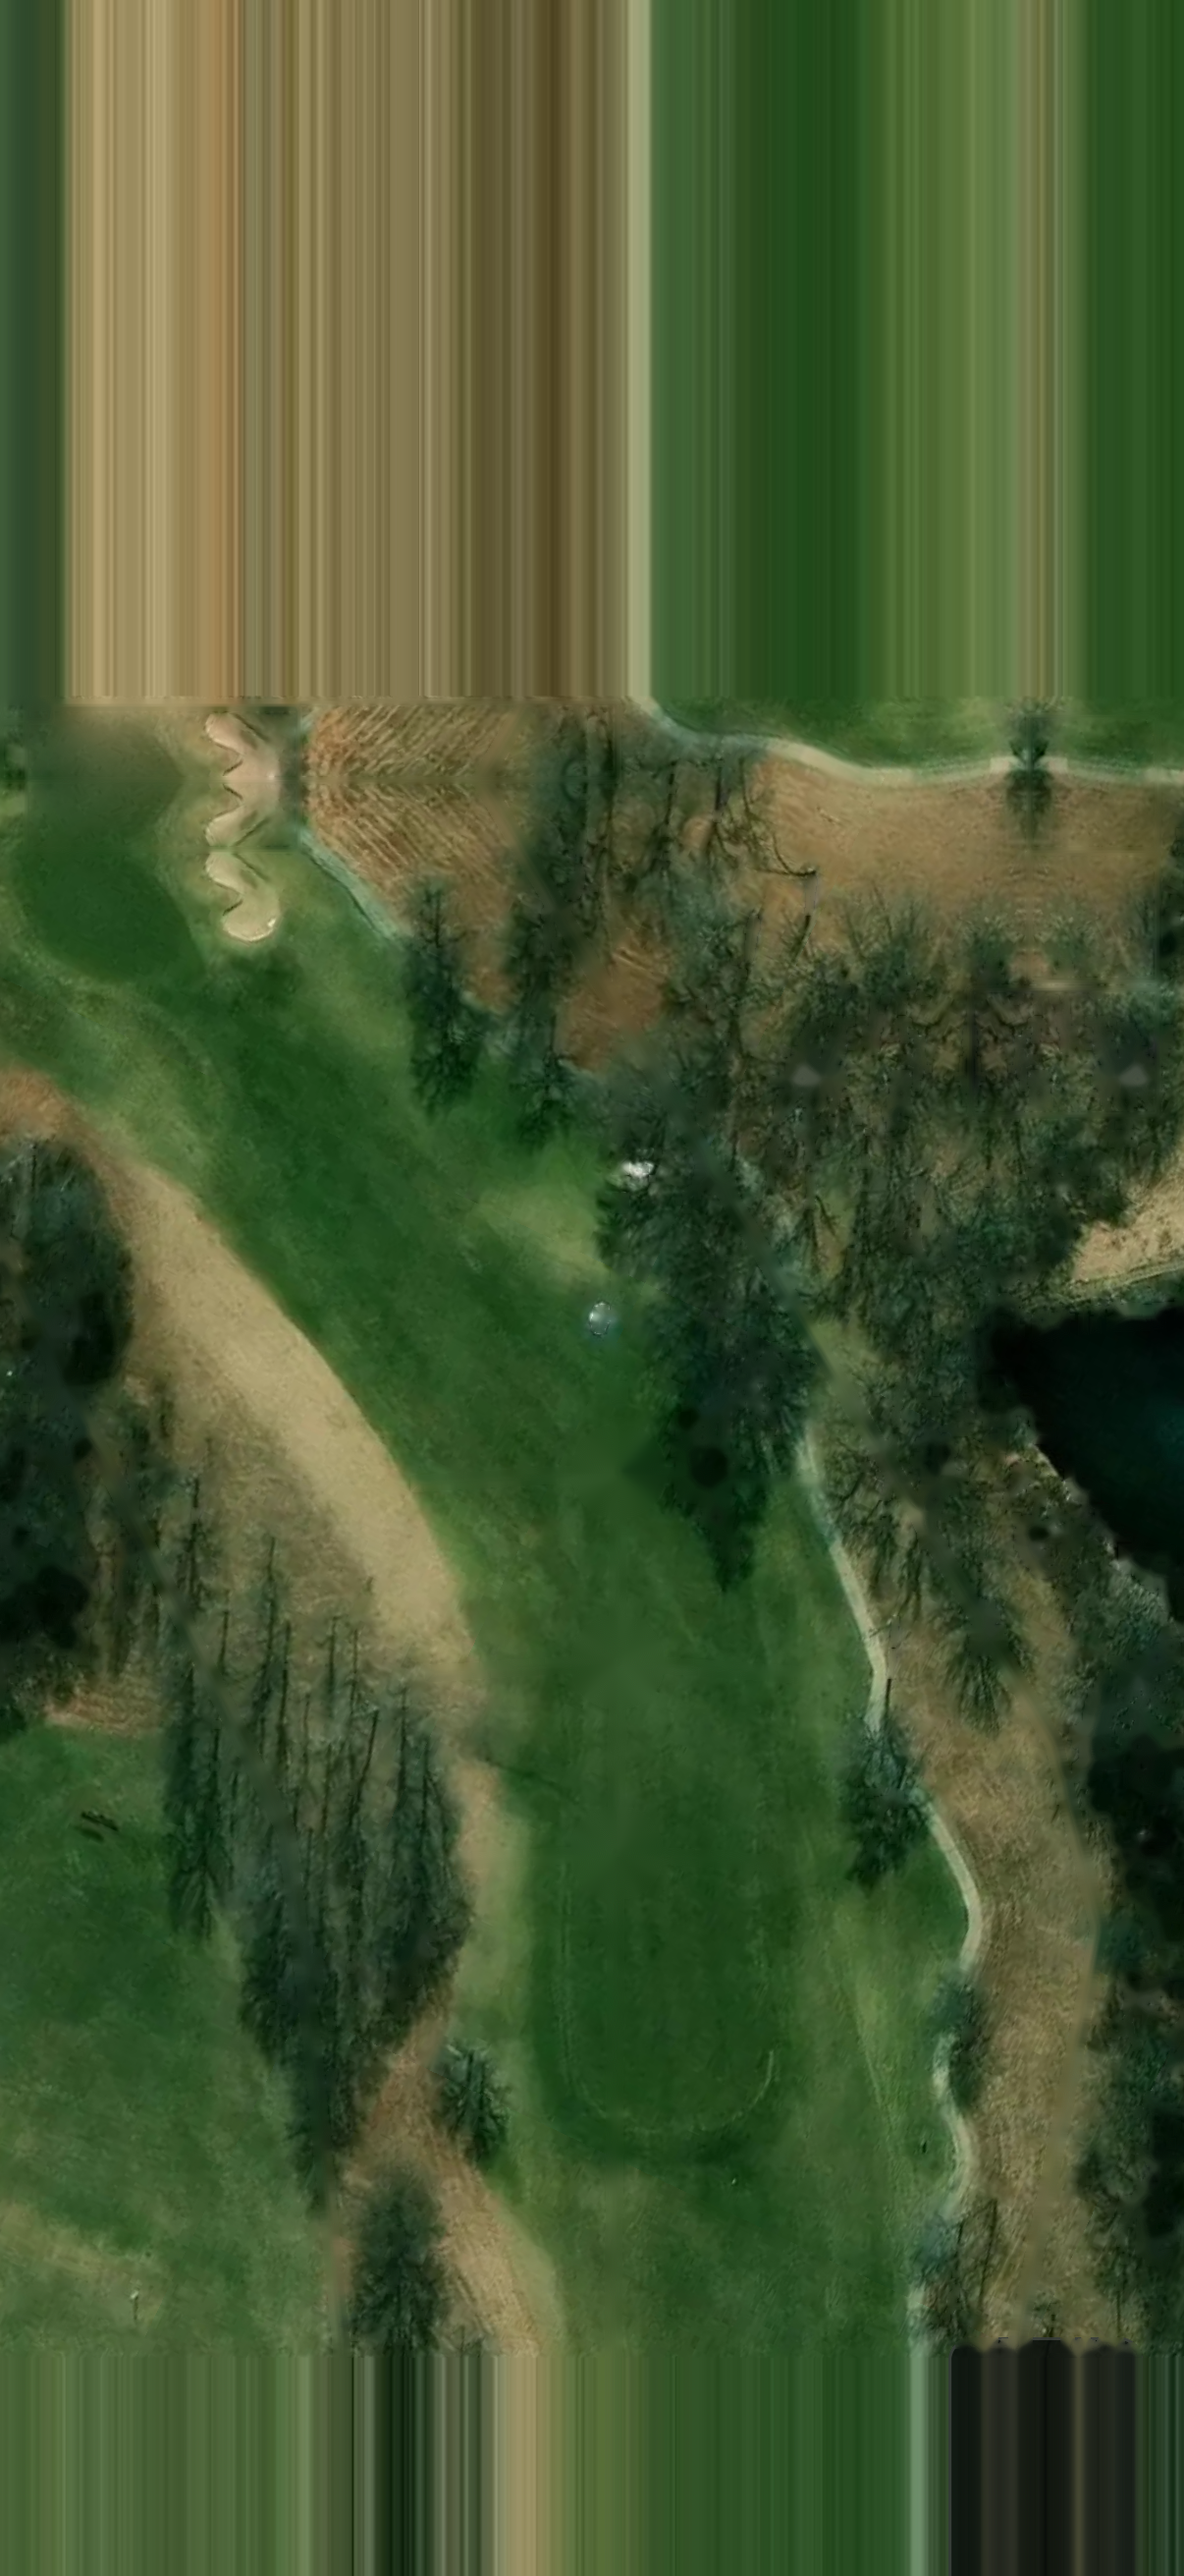
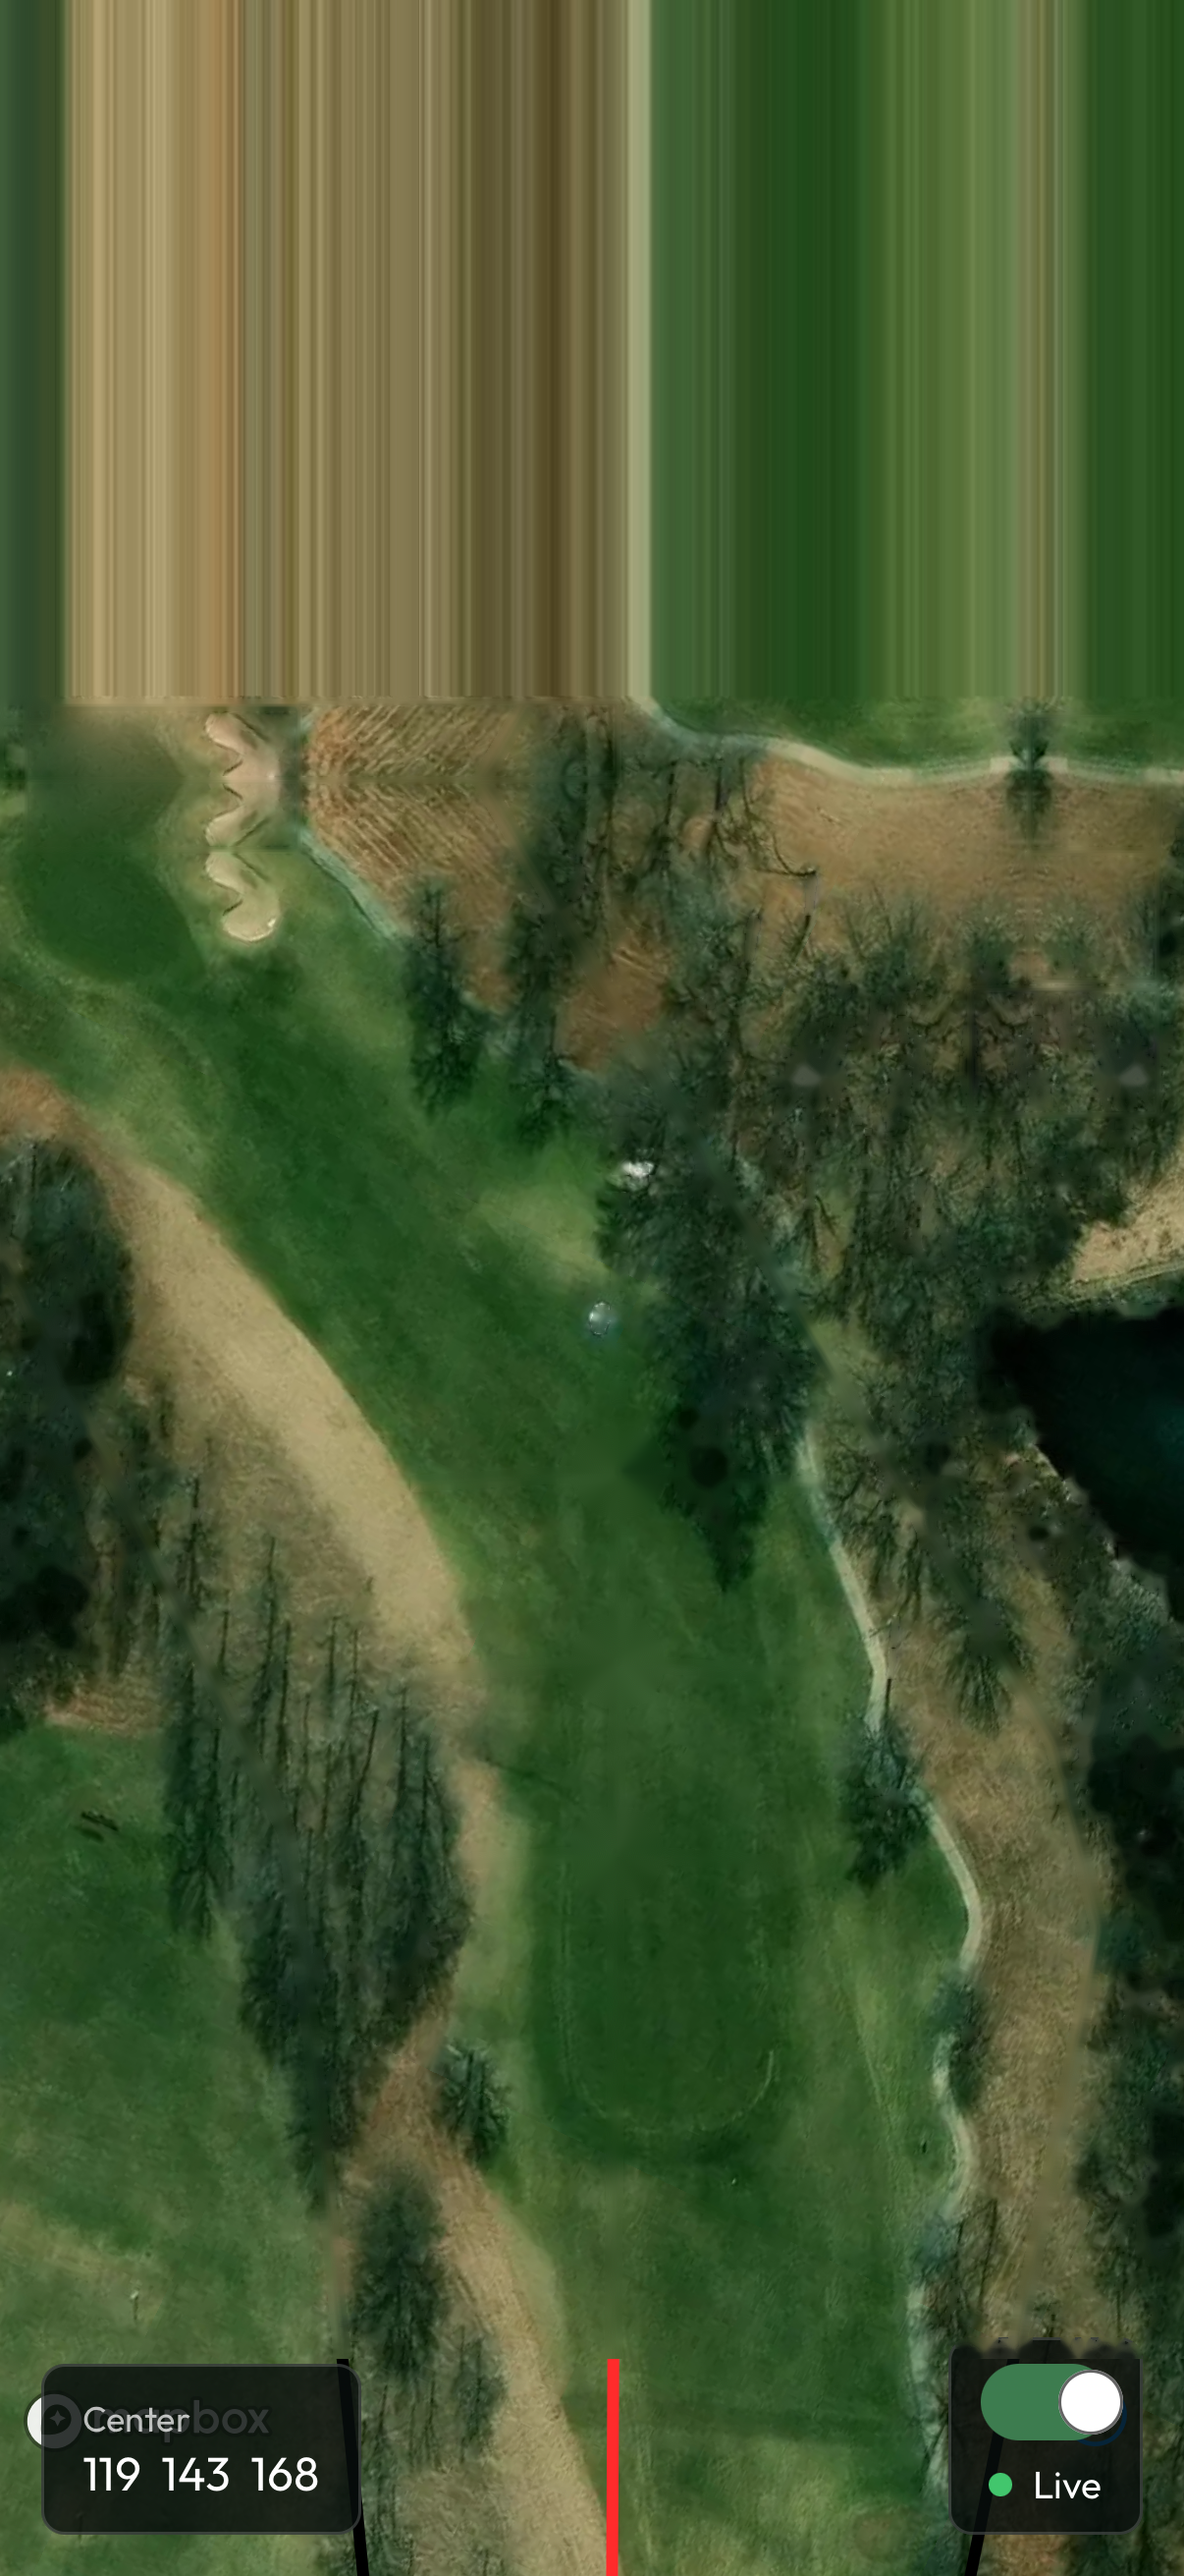
Clean maps: keep real app footer instead of smeared fill
Claude-Session: https://claude.ai/code/session_011rKvZuUcU769YfPfktPsds

Changed region(s): [[0.0, 0.8959, 1.0, 1.0]]

diff --git a/spirit_hollow/clean_maps.py b/spirit_hollow/clean_maps.py
@@ -90,7 +90,7 @@ def clean(path):
         cv2.rectangle(seam, (X0, Y0), (X1, Y1), 1, 6)
     work[top:bot] = cv2.inpaint(work[top:bot], seam[top:bot], 5, cv2.INPAINT_TELEA)
     work[:top] = work[top]                                     # flat fill (never displayed)
-    work[bot:] = work[bot - 1]
+    work[bot:] = bgr[bot:]                                     # keep the real app footer (tee area), no smear
     out = cv2.resize(work, (bgr.shape[1], bgr.shape[0]))
     return out
 

diff --git a/course_data/packages/spirit_hollow/out/compare_final_decision.md b/course_data/packages/spirit_hollow/out/compare_final_decision.md
@@ -1,0 +1,22 @@
+# Spirit Hollow Golf Course (black, quick) vs the hand-traced final decision
+
+Same club on 11/14 tee shots (79%); same or a tie on either side: 12/14.
+
+| Hole | Auto plan (club, aim) | Hand map final_decision (club, aim) | Club | Note |
+|---|---|---|---|---|
+| 1 | Driver -38 | 4-wood (tie) +5 | differs, but a tie |  |
+| 2 | Driver -5 | Driver -10 | same |  |
+| 4 | Driver +0 | Driver -2 | same |  |
+| 5 | 4-wood +5 | 4-wood -5 | same |  |
+| 6 | Driver -42 | Driver -2 | same |  |
+| 8 | Driver -30 | 4-wood +5 | DIFFERS |  |
+| 9 | 4-wood +10 | 4-wood (tie) -20 | same |  |
+| 10 | Driver -2 | Driver -8 | same |  |
+| 11 | 4-wood -2 | 4-wood -8 | same |  |
+| 13 | 4-wood +0 | 4-wood -20 | same |  |
+| 14 | Driver -50 | Driver -12 | same |  |
+| 16 | 4-wood (tie) +10 | 4-wood -5 | same |  |
+| 17 | Driver -10 | Driver +0 | same |  |
+| 18 | Driver +98 | 2-wood -10 | DIFFERS |  |
+
+Aims are not comparable one-to-one: the hand map's aims are off the GPS app's line, the auto plan's off the tee line to the hole line's first turn.
